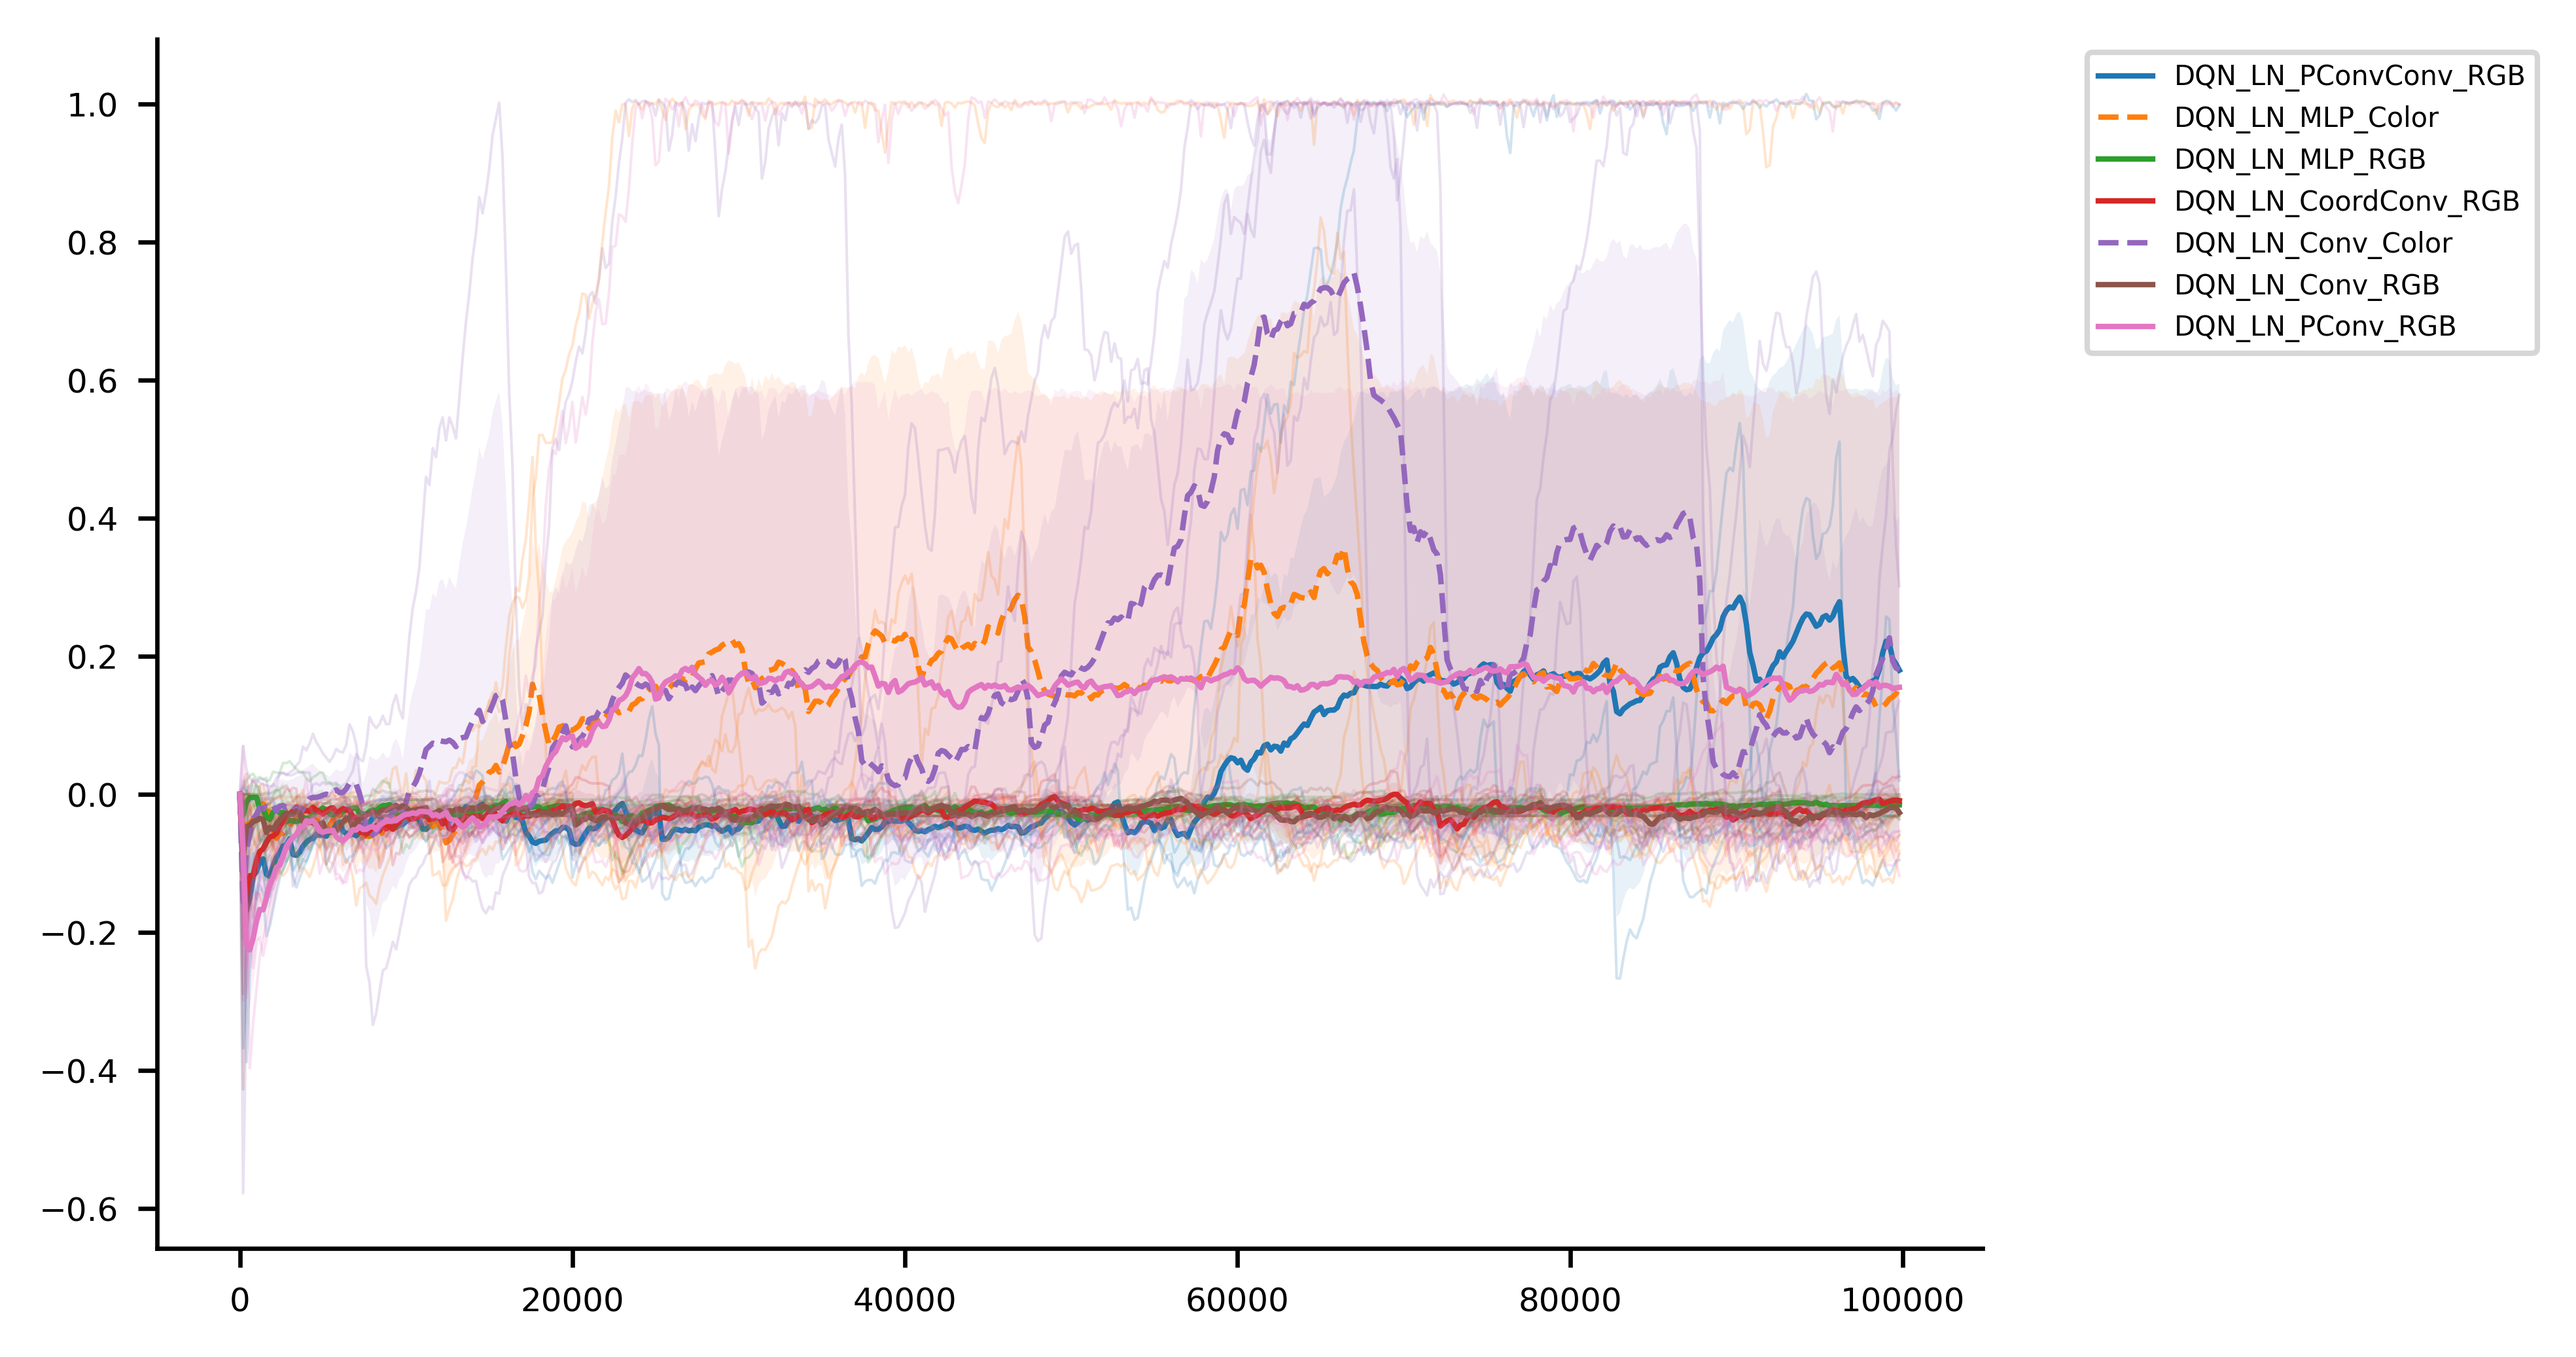
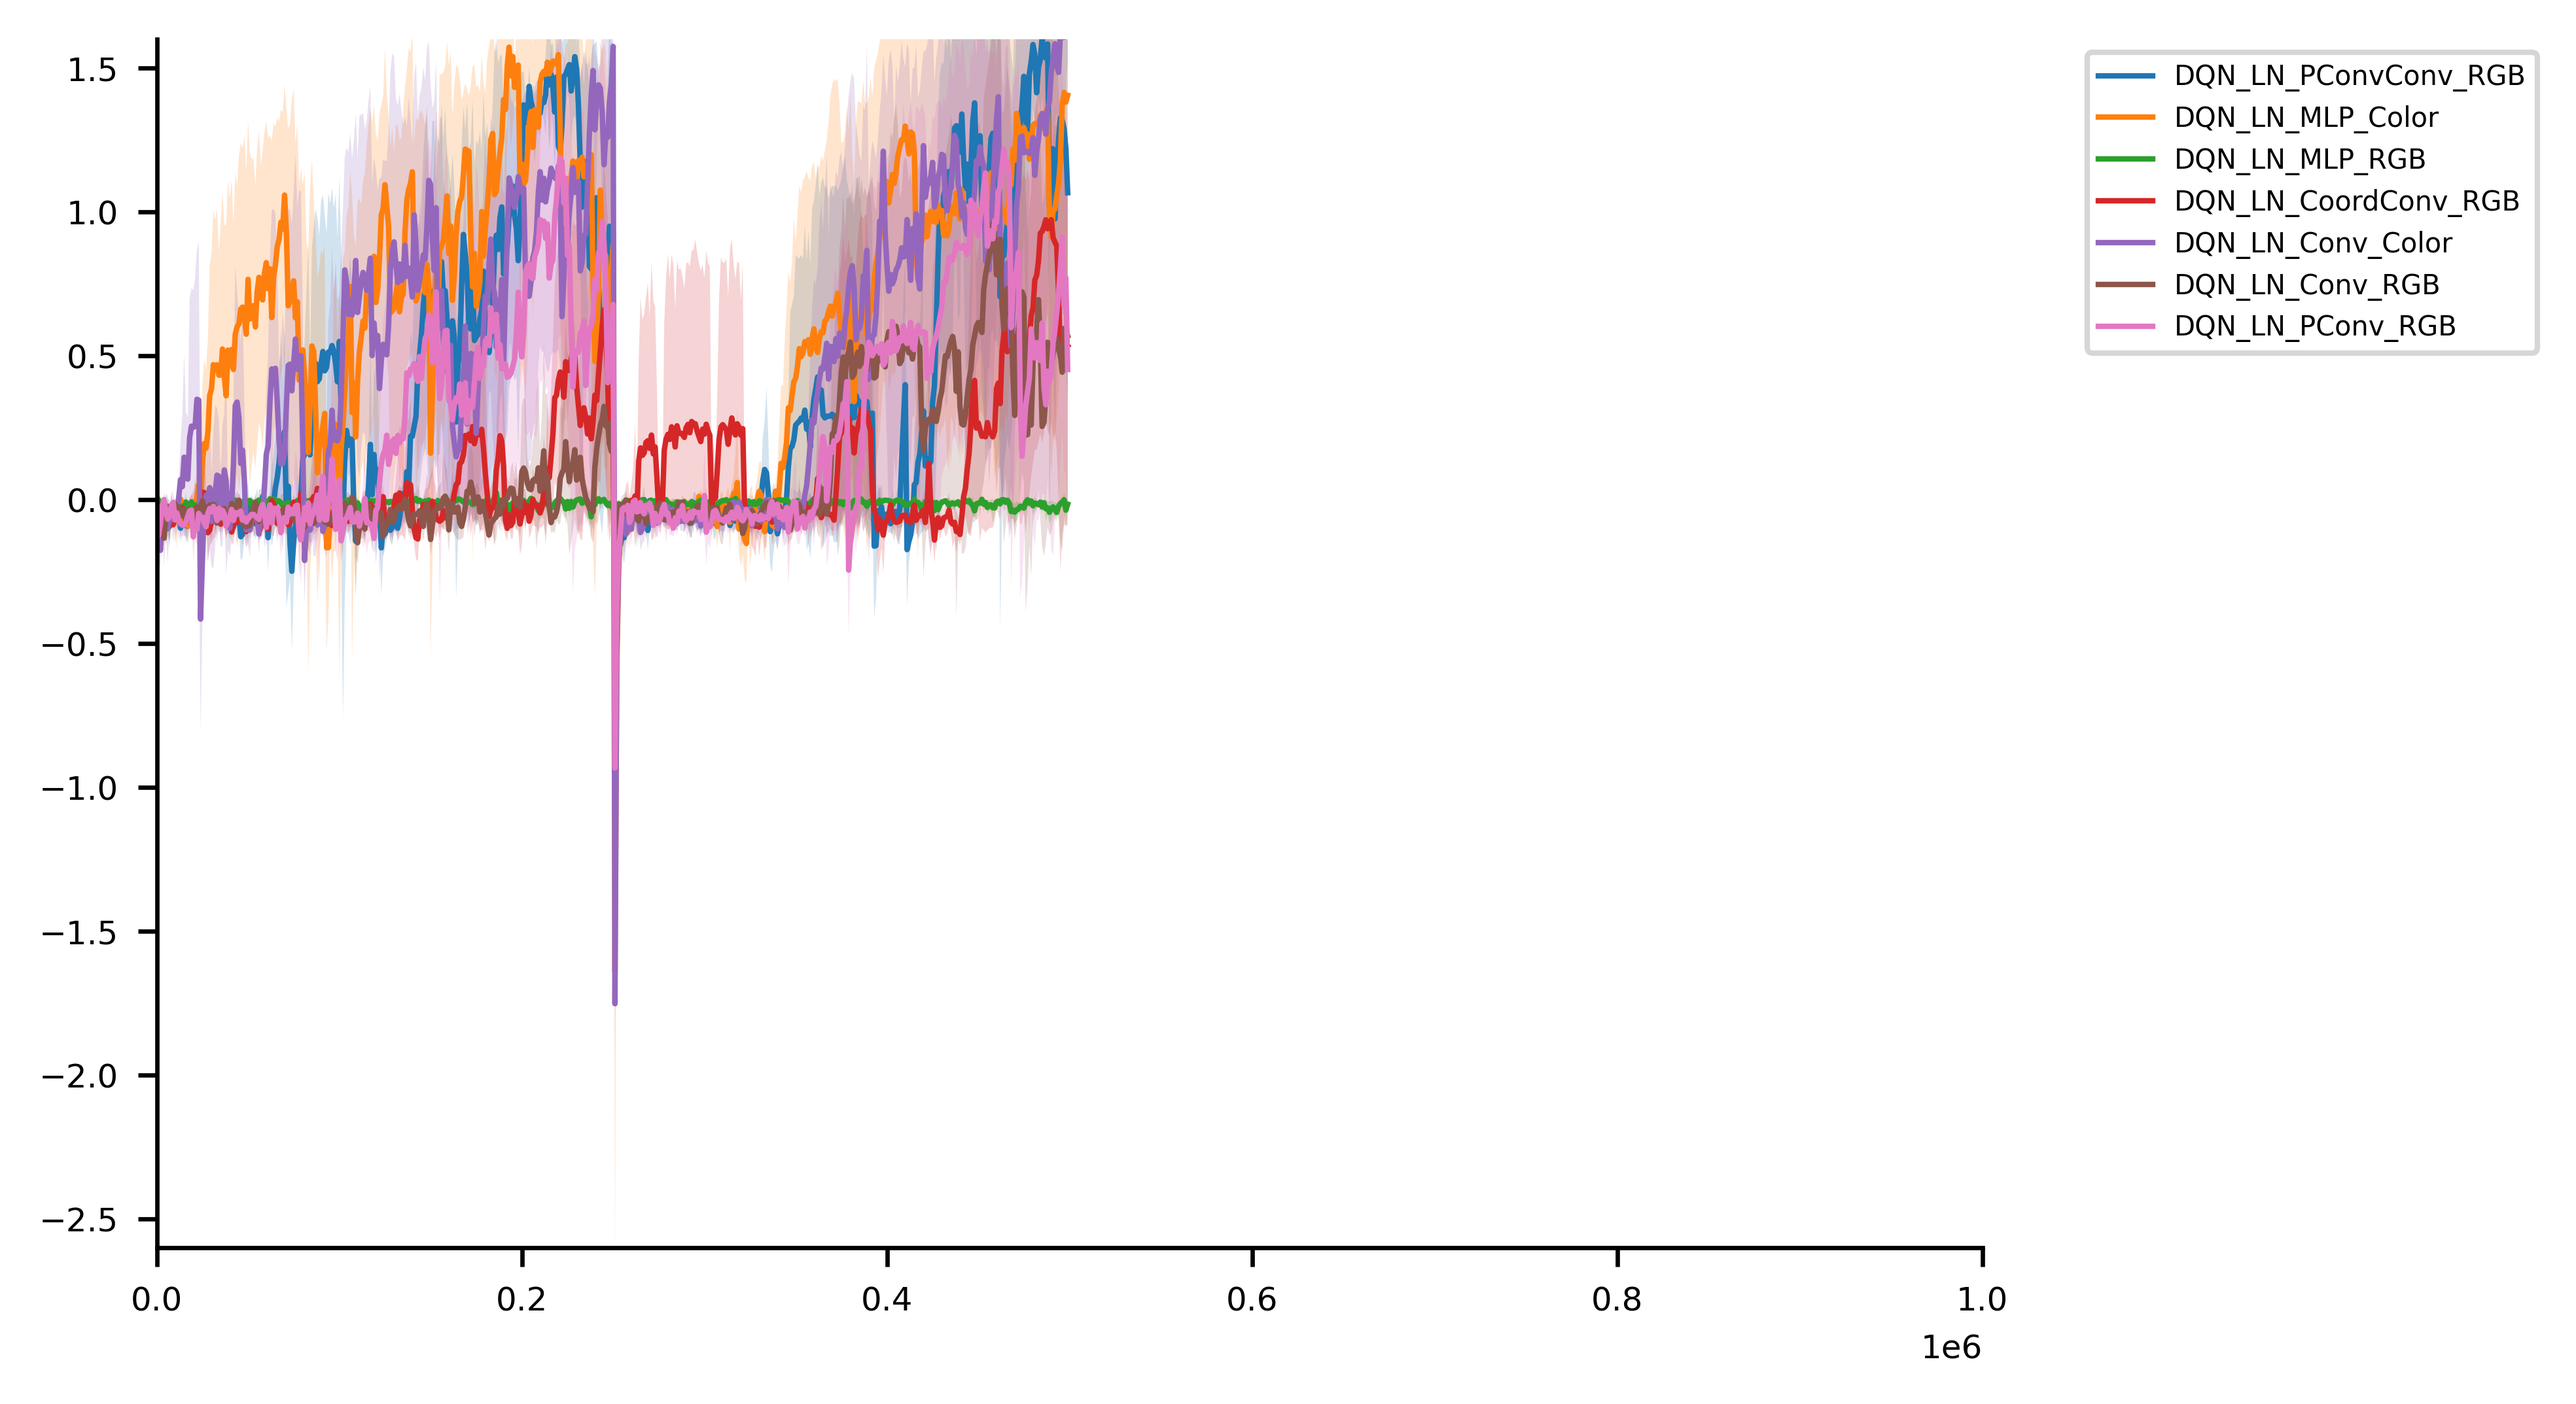
feat: results for DQN + Conv variants

diff --git a/experiments/X29-ForagaxSquareWaveTwoBiome-v10/foragax-sweep/ForagaxSquareWaveTwoBiome-v10/learning_curve.py b/experiments/X29-ForagaxSquareWaveTwoBiome-v10/foragax-sweep/ForagaxSquareWaveTwoBiome-v10/learning_curve.py
@@ -49,7 +49,7 @@ if __name__ == "__main__":
             print(df)
             df = df.with_columns([
                 pl.col("mean_ewm_reward").cast(pl.Float32),
-                pl.col("ewm_reward_5").cast(pl.Float32),
+                pl.col("ewm_reward").cast(pl.Float32),
             ])
 
             report = Hypers.select_best_hypers(
@@ -65,7 +65,7 @@ if __name__ == "__main__":
             xs, ys = extract_learning_curves(
                 df,
                 hyper_vals=report.best_configuration,
-                metric='ewm_reward_5',
+                metric='ewm_reward',
             )
 
             xs = np.asarray(xs)
@@ -79,15 +79,17 @@ if __name__ == "__main__":
                 iterations=10000,
             )
 
-            linestyle = '-' if "RGB" in alg else '--'
-
-            line = ax.plot(xs[0], res.sample_stat, label=alg, linewidth=1.0, linestyle=linestyle)
-            for y in ys:
-                ax.plot(xs[0], y, color=line[0].get_color(), alpha=0.2, linewidth=0.5)
-            ax.fill_between(xs[0], res.ci[0], res.ci[1], alpha=0.1)
+            line = ax.plot(xs[0], res.sample_stat, label=alg, linewidth=1.0)
+            # for y in ys:
+            #     ax.plot(xs[0], y, color=line[0].get_color(), alpha=0.2, linewidth=0.5)
+            ax.fill_between(xs[0], res.ci[0], res.ci[1], alpha=0.2)
 
         ax.spines['top'].set_visible(False)
         ax.spines['right'].set_visible(False)
+
+        ax.set_yticks(np.arange(-2.5, 1.6, 0.5))
+        ax.set_ylim(-2.6, 1.6)
+        ax.set_xlim(0, 1e6+1)
 
         plt.legend(bbox_to_anchor=(1.05, 1), loc='upper left', fontsize='small')
 
